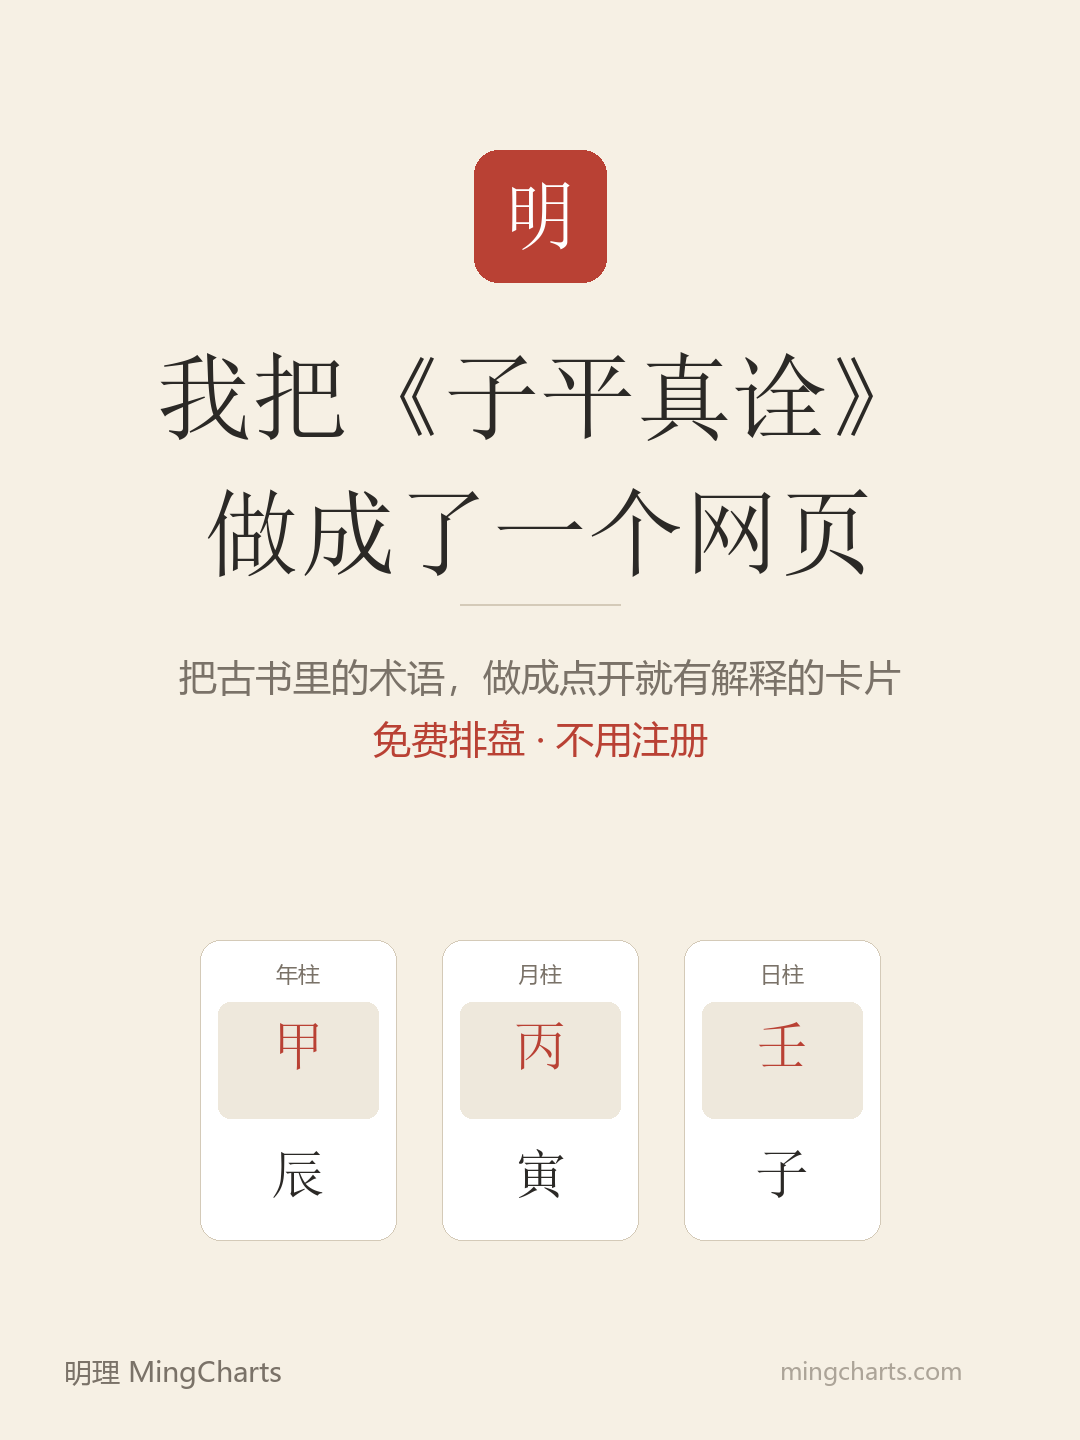
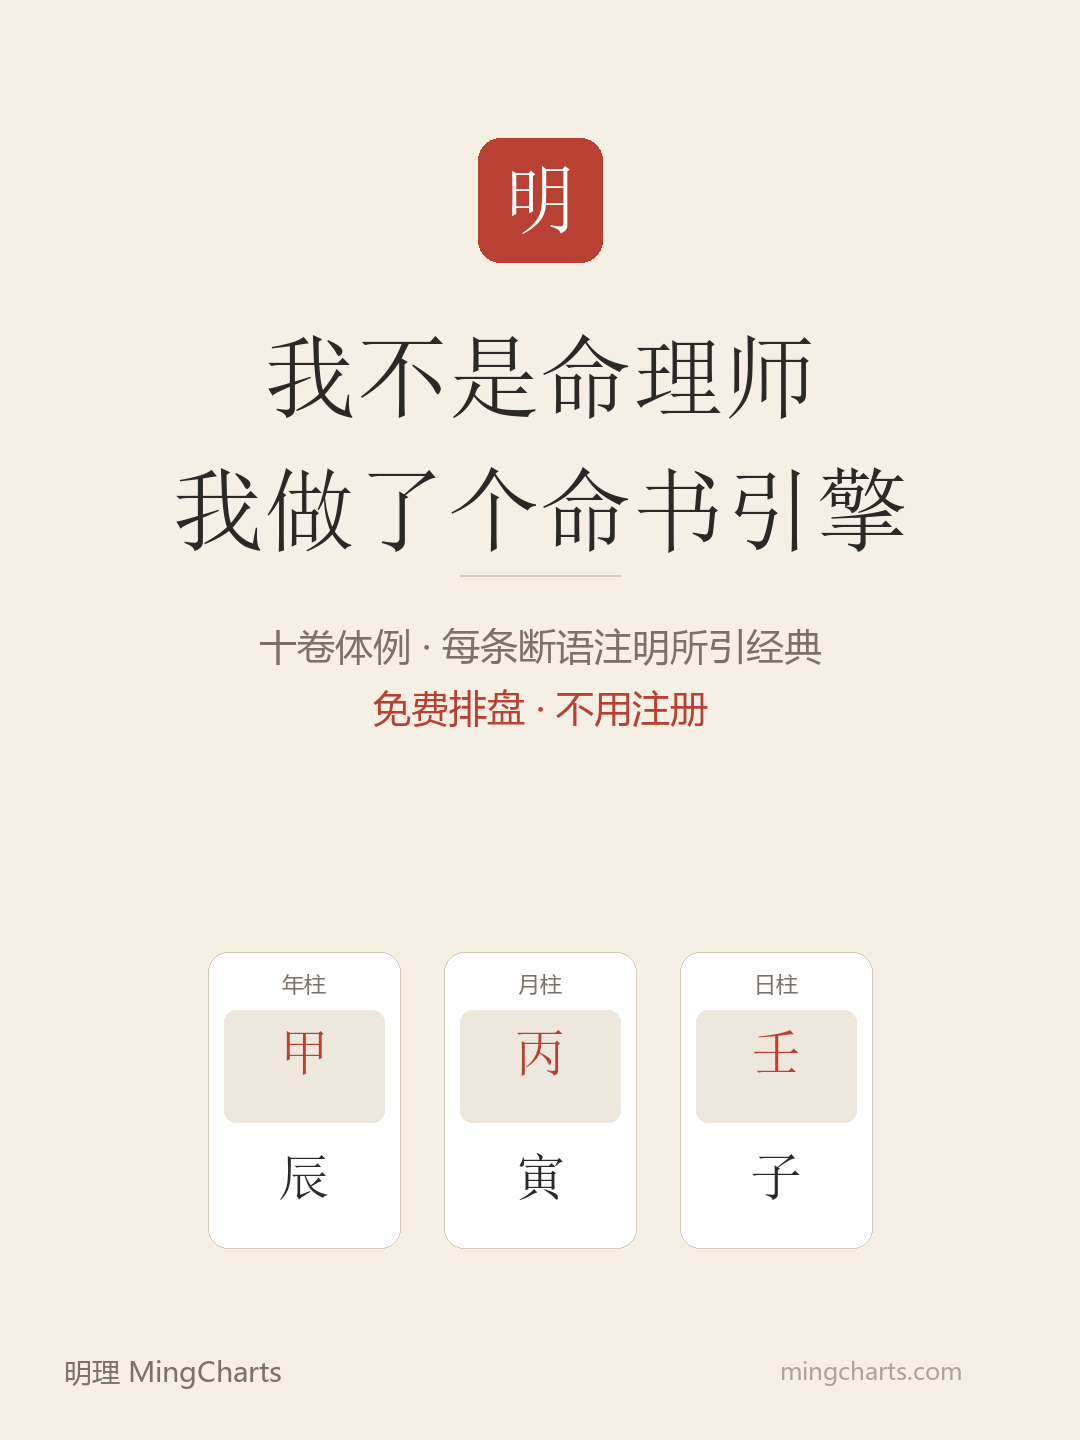
docs(brand): 小红书笔记改定位 —— 从"我看不懂盘"改成"我不是命理师"
用户指出：v1 开头「书能看懂，盘看不懂」会显得水平低。复盘确认是方向性错误：
  ① 把作者写成新手 —— 读者是命理师，第一句自称看不懂盘，后面讲十卷体例没人信
  ② 与产品矛盾 —— 卖的是"够格交给客户"的报告，作者却自称看不懂盘
  ③ 不属实 —— 盘确实看得懂

v2 定位（真实且更有区分度）：
  命理师知道怎么断，但写一份万字命书要三小时；
  作者不会断，但能把"知道的东西"工程化成一万字的体例。
  好处：不吹会算命（诚实）、不装作懂断语（不越界）、占住命理师自己解决不了的位置（交付）；
  且与私信话术是同一个故事，笔记与 DM 不用两套说辞。

改动：
- 标题改为「我不是命理师，我做了个命书引擎」（15 字）
- 正文重写：先说明身份 → 读过哪些书/盘能看 → 我做不到的是"把盘写成一万字" →
  命理师要三小时 → 所以我做了十卷体例的引擎 → 免费排盘
- 结尾提问改为「你批一份命书，大概要花多少时间？」——既给同行留入口，也预演私信第一问
- 01-cover.png 重绘：标题与新定位一致（旧版「我把《子平真诠》做成了一个网页」已废弃）
- 文案 md 增加 v1→v2 的复盘段，避免后人改回去

diff --git a/docs/品牌/xhs-note1-文案.md b/docs/品牌/xhs-note1-文案.md
@@ -1,40 +1,38 @@
-# 小红书第一条笔记（2026-10-23）
+# 小红书第一条笔记（2026-10-23 · v2 改定位）
 
 > 目的：让点进主页的命理师看到「这是真人做的产品」，而不是空号营销号。
 > 配图在同目录 `xhs-note1/`：01-cover / 02-product / 03-volumes（1080×1440，按此顺序上传）。
 
 ---
 
-## 标题（15 字，小红书上限 20）
+## 标题（15 字）
 
 ```
-我把《子平真诠》做成了一个网页
+我不是命理师，我做了个命书引擎
 ```
 
 ## 正文
 
 ```
-三年前开始学八字，卡在同一件事上：书能看懂，盘看不懂。
+先说明身份：我不是命理师，是产品经理。
 
-「七杀攻身」「食神制杀」「藏干透出」——
-这些词古籍里都有定义，但要在同一张四柱图上同时看到它们，
-得自己拿笔在纸上画。
+《子平真诠》《滴天髓》《穷通宝鉴》这些书我读了两年。
+盘我能看，术语我知道它们在说什么。
 
-所以我做了个东西：把每个术语做成点开就有解释的卡片。
+我做不到的是另一件事：把一张盘写成一份一万字的报告。
 
-现在打开一个盘，能看到：
-· 四柱干支，每柱管什么（年月日时各代表什么）
-· 十神标在原位，不用自己推
-· 藏干列出来，标注主气还是余气
-· 起运时间按真太阳时校正，不按北京时间硬算
-· 大运、流年一条线排到底
+每一条断语都要说得出依据——出自哪本书哪一句；
+格局、调候、用神、大运流年要铺开讲；还要写得让人看得下去。
 
-没做预测，也不打算做。
-目标只有一个：让古书上写过的东西，在屏幕上看得见。
+命理师做这件事，一份要三小时。
+
+所以我做了个引擎：
+四柱、十神、藏干、起运、大运流年算清楚，
+再加上十卷体例（每卷标注所引经典），十分钟出一份。
 
 排盘免费，不用注册。
 
-你第一次学八字，是卡在哪个概念上？
+——你批一份命书，大概要花多少时间？
 ```
 
 ## 标签（6 个）
@@ -45,23 +43,49 @@
 
 ---
 
+## 为什么把「看不懂盘」改掉了（v1 → v2）
+
+v1 开头是「书能看懂，盘看不懂」。作者（也就是你）指出这句会显得水平低。复盘后确认是**方向性错误**，三个原因：
+
+1. **把你写成了新手** —— 读者是命理师，他们只看你说什么判断水平；第一句自称看不懂盘，后面讲「十卷体例」也没人信。
+2. **和卖的东西矛盾** —— 伙伴买的是「够格交给客户」的报告，作者却自称看不懂盘，逻辑打架。
+3. **不是事实** —— 盘你确实看得懂。
+
+v2 换成**真实且更有区分度**的定位：
+
+```
+命理师：知道怎么断，但写一份万字命书要三小时
+你：不会断，但能把「知道的东西」工程化成一万字的体例
+```
+
+好处：不吹自己会算命（诚实）、不装作懂断语（不越界）、占据一个命理师自己解决不了的位置（交付）。
+**而且与私信话术是同一个故事** —— 笔记和 DM 不用两套说辞。
+
 ## 发之前的四条注意
 
 1. **正文和图片里都不放网址、不放微信** —— 小红书导流会被限流，甚至影响私信权限。
 2. **不要勾「原创声明」** —— 需要资格，勾了反而可能被驳。
-3. **发布时间选 20:00–22:00** —— 台港马新与大陆同时区（GMT+8），这个时段活跃度最高。
-4. **发完别立刻去私信 Mandy** —— 隔一天。当天发内容 + 当天私信陌生人，行为序列太像营销号。
+3. **发布时间 20:00–22:00** —— 台港马新与大陆同时区（GMT+8）。
+4. **发完隔一天再私信** —— 同日发内容 + 私信陌生人，行为序列太像营销号。
 
-## 为什么是这三张图
+## 三张图的分工
 
 | 图 | 作用 |
 |---|---|
-| 01 封面 | 标题党但不夸张：一个具体古籍名 + 一个具体动作（做成网页） |
-| 02 产品截图 | 证明它是真的、能用的，不是 PPT |
-| 03 十卷目录 | 回应「深度够不够」——命理师看这一张就知道我们做了什么 |
+| 01 封面 | 「我不是命理师 / 我做了个命书引擎」——一句话讲清身份与差异 |
+| 02 产品截图 | 证明是真的、能用的，不是 PPT |
+| 03 十卷目录 | 回应「深度够不够」——命理师看这一张就够判断 |
+
+## 结尾那句提问的用意
+
+「你批一份命书，大概要花多少时间？」
+
+不是互动话术，是**给同行留的入口**：
+真在接单的命理师会答「三小时」「一个下午」，那些留言本身就是可信度；
+同时它预演了私信里的第一个问题，说法一致。
 
 ## 已知取舍
 
-- **没写「命理」「算命」这类词**：小红书对玄学内容限流严，用「传统文化」「排盘」更安全。
-- **没提价格**：第一条笔记是建立身份，不是卖东西。价格留给命理师私信里谈。
-- **结尾留了个问题**：不是为了互动数据，是为了让真懂行的人在评论区说话——那些留言本身就是可信度。
+- **不出现「命理」「算命」**：小红书对玄学限流严，用「传统文化」「排盘」更安全。
+- **不提价格**：第一条笔记是建立身份，不是卖东西。
+- **不吹准确率**：我们的报告本来就带合规过滤（禁用「必」「一定」一类承诺措辞），对外也不该承诺。
